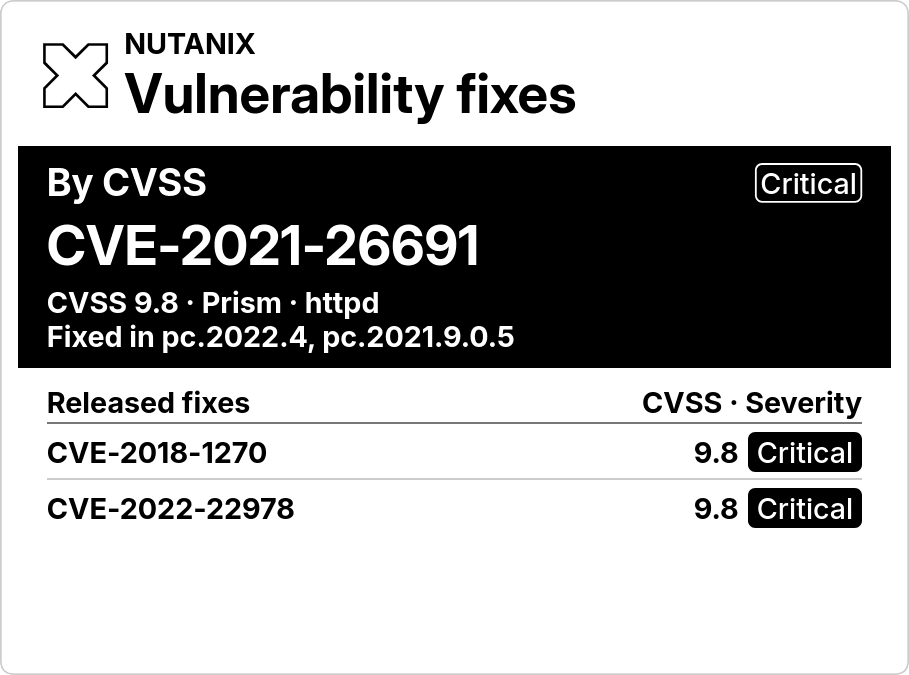
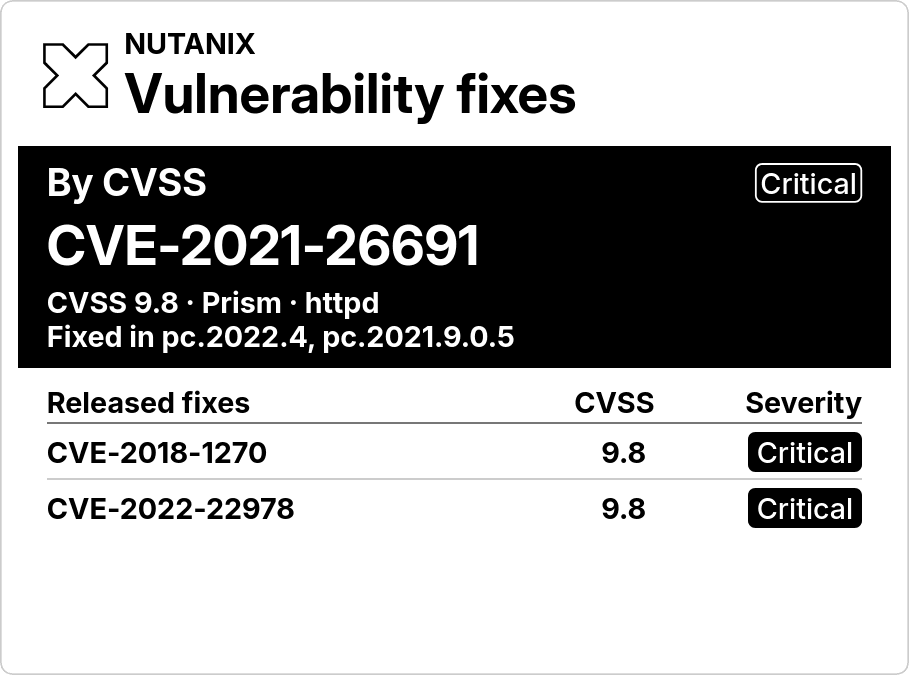
fix: separate cvss and severity columns

diff --git a/TRMNL/tests/layout_spec.rb b/TRMNL/tests/layout_spec.rb
@@ -130,7 +130,9 @@ RSpec.describe 'Nutanix Security layouts' do
                   Math.abs(table.querySelector('th .label').getBoundingClientRect().left - leadRule.left),
                   Math.abs(tableBox.right - leadRule.right)
                 ) : 0,
-                columns: table ? [...table.querySelectorAll('th')].filter(cell => cell.getClientRects().length).length : 0
+                headers: Array.from(table?.querySelectorAll('th') ?? [])
+                  .filter(cell => cell.getClientRects().length)
+                  .map(cell => cell.textContent.trim())
               };
             })()
           JS
@@ -151,7 +153,14 @@ RSpec.describe 'Nutanix Security layouts' do
           if count > 1 && view == 'full'
             expect(geometry['stackedMetadata']).to be(false)
             expect(geometry['beside']).to be(false)
-            expect(geometry['columns']).to eq(3)
+            expect(geometry['headers'].size).to eq(mode == 'nxvd' ? 4 : 3)
+          end
+          if geometry['rows'].positive?
+            expect(geometry['headers'].last).to eq('Severity')
+            if mode == 'nxvd' && (view == 'full' || device_name.start_with?('x'))
+              expect(geometry['headers'].last(2)).to eq(%w[CVSS Severity])
+              expect(screen).to have_css('[data-ns-row] td:nth-last-child(2)', text: '9.8')
+            end
           end
 
           FileUtils.mkdir_p('_build/previews')

diff --git a/TRMNL/README.md b/TRMNL/README.md
@@ -18,7 +18,7 @@ The listing icon is available at [media/icon.svg](media/icon.svg). Upload it sep
 
 ## Previews
 
-Rendered with public Nutanix data from November 21, 2026.
+Rendered with public Nutanix data.
 
 | Security Advisories | Full | Half horizontal | Half vertical | Quadrant |
 | --- | --- | --- | --- | --- |
@@ -36,7 +36,7 @@ Rendered with public Nutanix data from November 21, 2026.
 
 The full view on both TRMNL OG and X has a small QR code in the header. It opens the selected table on Nutanix's support portal. NXVD opens with your selected product. The portal uses its own sort order.
 
-The full views share a lead panel and three columns. Advisory rows group the publication date and advisory number. NXVD rows group the product and fixed releases. The landscape horizontal split puts the lead beside the table. The OG quadrant shows one featured item, and the X quadrant also fits a short table. [TRMNL X layout guide](https://trmnl.com/framework/docs/3.4/trmnl_x_guide)
+The full views share a lead panel and a table. Advisory rows group the publication date and advisory number. NXVD rows group the product and fixed releases, with separate columns for CVSS and severity. The landscape horizontal split puts the lead beside the table. The OG quadrant shows one featured item, and the X quadrant also fits a short table. [TRMNL X layout guide](https://trmnl.com/framework/docs/3.4/trmnl_x_guide)
 
 Full views show as many rows as fit below the lead, up to the 17-item data limit. The framework handles typography, table sizing, and responsive column widths. Text clips in place on first paint. The landscape limits below include the featured item.
 
